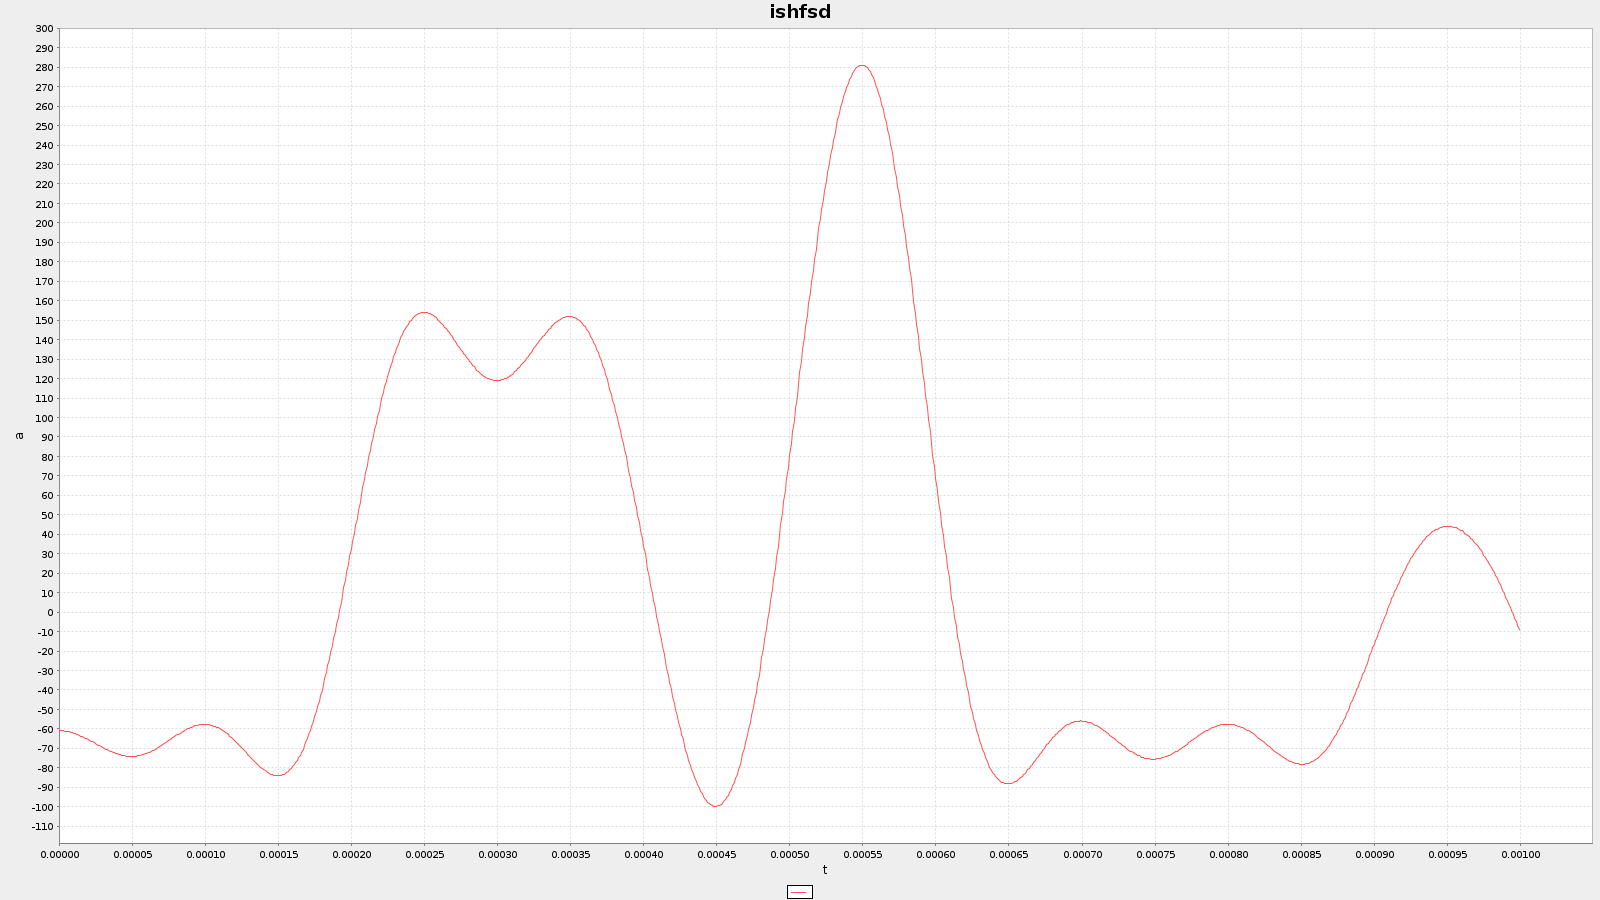
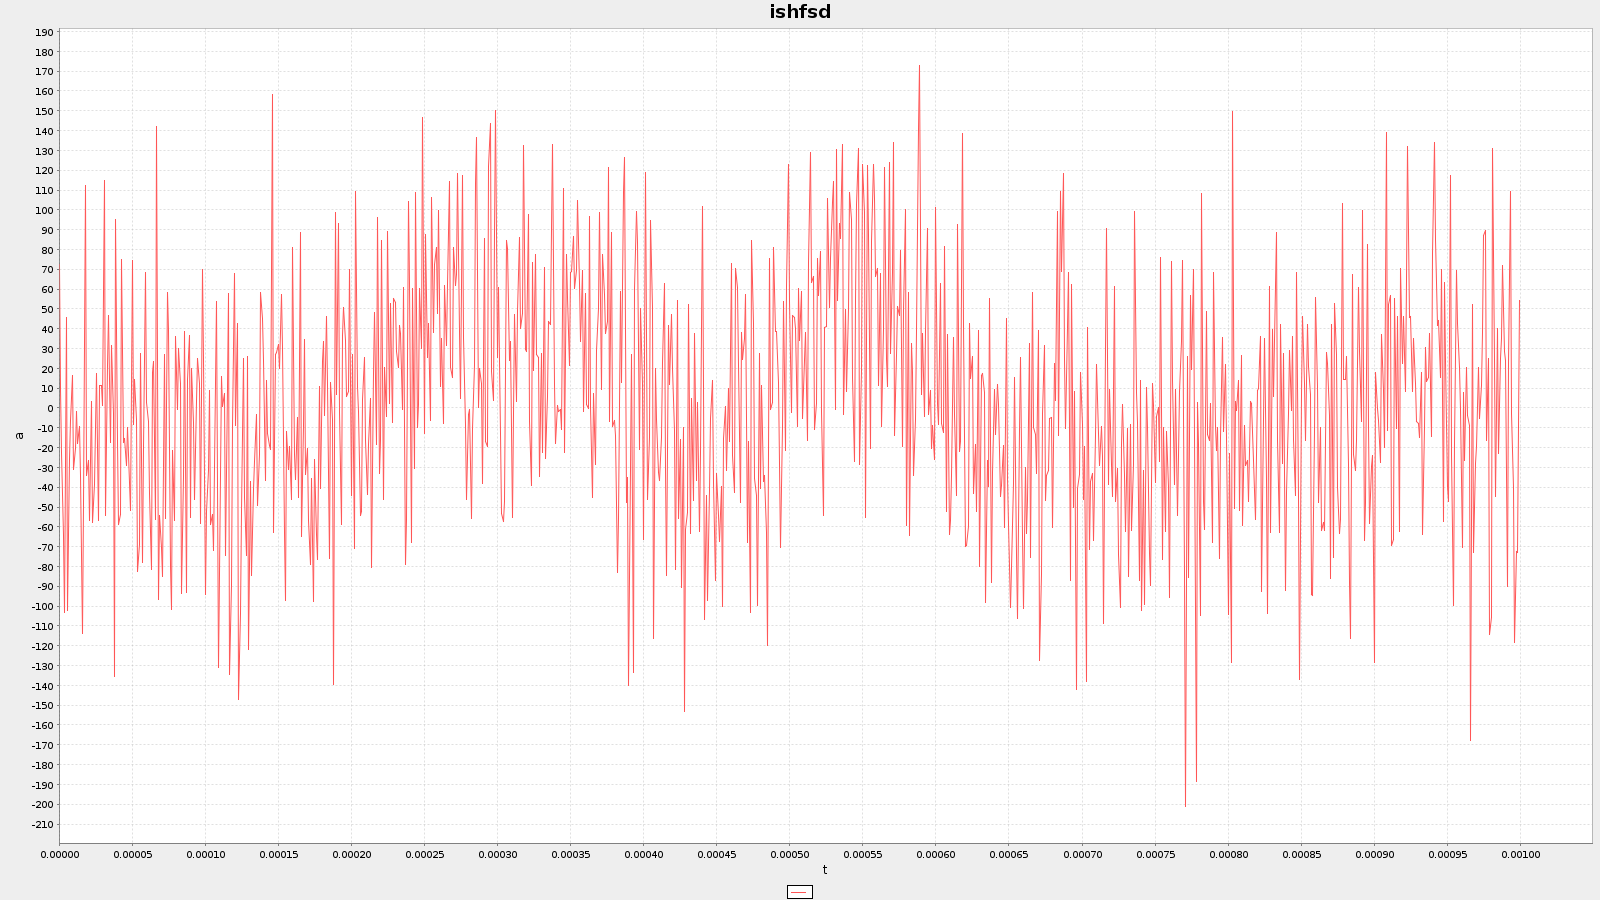
qam good enough

diff --git a/channel-simulation/java-channel-simulation/src/main/java/display/SimulatorView.java b/channel-simulation/java-channel-simulation/src/main/java/display/SimulatorView.java
@@ -78,7 +78,8 @@ public class SimulatorView extends Frame implements Runnable {
         this.snrSlider.setVisible(true);
         this.snrSlider.setMinimum(minSNR);
         this.snrSlider.setMaximum(maxSNR);
-        this.snrSlider.setValue((maxSNR - minSNR) / 2);
+        // todo reset this
+        this.snrSlider.setValue(240);
         this.snrSlider.addChangeListener(e -> {
             this.snrDisplay.setText(this.snrSlider.getValue() + " dB");
             this.noiseRMS = this.modulator.getRMS() / (float) Math.pow(10, (double) this.snrSlider.getValue() / 20);
@@ -154,12 +155,12 @@ public class SimulatorView extends Frame implements Runnable {
             byte[] outputData = this.demodulator.buffer.getChunk(this.outputDisplay.getImageWidth() * this.outputDisplay.getImageHeight() * 3);
             this.outputDisplay.paint(outputData);
             this.berDisplay.setText(Float.toString(findBER(inputData, outputData)));
-            for (int i = 0; i < 10; i++) {
+           /* for (int i = 0; i < 10; i++) {
                 int idx = new Random().nextInt(0, inputData.length);
                 if (inputData[idx] != Maths.reverseByte(outputData[idx]))
                     System.out.println(byteToString(inputData[idx]) + "\n" + byteToString(Maths.reverseByte(outputData[idx])) + "\n");
             }
-            System.out.println();
+            System.out.println();*/
 
             try {
                 Thread.sleep(this.updatePeriod);

diff --git a/channel-simulation/java-channel-simulation/src/main/java/main/DemodulationController.java b/channel-simulation/java-channel-simulation/src/main/java/main/DemodulationController.java
@@ -23,16 +23,13 @@ public class DemodulationController implements Runnable {
                 this.demodulator.next((float) (rd.nextGaussian() * this.simulatorView.getNoiseRMS()));
 
 
-            /*synchronized (this.demodulator.buffer) {
+            synchronized (this.demodulator.buffer) {
                 // Sometimes the demodulator won't output the last bytes, or will output too many.
-                if (this.demodulator.buffer.getSize() != 0) {
-                    while (this.demodulator.buffer.getSize() > this.simulatorView.getModulator().buffer.getSize())
-                        this.demodulator.buffer.getChunk(1);
-                    while (this.demodulator.buffer.getSize() < this.simulatorView.getModulator().buffer.getSize())
-                        this.demodulator.buffer.addData((byte) 0x00);
-                }
+
+                while (this.demodulator.buffer.getSize() % this.simulatorView.getImageSizeBytes() != 0)
+                    this.demodulator.buffer.addData((byte) 0x00);
                 this.demodulator.buffer.notifyAll();
-            }*/
+            }
 
             // Tell the simulator window that the demodulation has finished.
             this.simulatorView.alertFinished();

diff --git a/channel-simulation/java-channel-simulation/src/main/java/demodulator/QAMDemodulator.java b/channel-simulation/java-channel-simulation/src/main/java/demodulator/QAMDemodulator.java
@@ -35,7 +35,7 @@ public class QAMDemodulator extends Demodulator {
         float avgQ = this.sumAmpQ / this.samplesPerSymbolPeriod;
 
         int iVal = (byte) 0xFF, qVal = (byte) 0xFF;
-        float div = this.carrierAmplitude;
+        float div = this.carrierAmplitude / levels;
         for (byte i = 0; i < levels; i++) {
             float correctVal = i * div - 0.5f * div;
             if (avgI > correctVal - 0.5f * div && avgI < correctVal + 0.5f * div)
@@ -43,17 +43,9 @@ public class QAMDemodulator extends Demodulator {
             if (avgQ > correctVal - 0.5f * div && avgQ < correctVal + 0.5f * div)
                 qVal = i;
         }
-
         qVal <<= this.bitsPerSymbol / 2;
 
-        /*byte val = 0;
-        byte sum = (byte) (qVal + iVal);
-        for (int i = 0; i < 8; i++) {
-            val += (byte) ((byte) ((sum & 0x80) != 0 ? 1 : 0) << i);
-            sum <<= 1;
-        }*/
         byte val = (byte) (qVal + iVal);
-
         return Maths.reverseByte(val);
     }
 

diff --git a/channel-simulation/java-channel-simulation/src/main/java/modulator/QAMModulator.java b/channel-simulation/java-channel-simulation/src/main/java/modulator/QAMModulator.java
@@ -53,9 +53,11 @@ public class QAMModulator extends Modulator {
             //      ~1111 1100 = 0000 0011.
             // -1 = 0xFFFFFFFFFFFFFFFF
             long bitMask = (byte) ~(-1 << (bitsPerSymbol / 2));
-            float aI = inphase(t) * (this.carrierAmplitude) * (symbol & bitMask);
+            //float aI = inphase(t) * (this.carrierAmplitude) * (symbol & bitMask);
+            float aI = inphase(t) * (this.carrierAmplitude / levels) * (symbol & bitMask);
             symbol >>= bitsPerSymbol / 2;
-            float aQ = quadrature(t) * (this.carrierAmplitude) * (symbol & bitMask);
+            float aQ = quadrature(t) * (this.carrierAmplitude / levels) * (symbol & bitMask);
+            //float aQ = quadrature(t) * (this.carrierAmplitude) * (symbol & bitMask);
 
             samples[i] = aI + aQ;
         }
